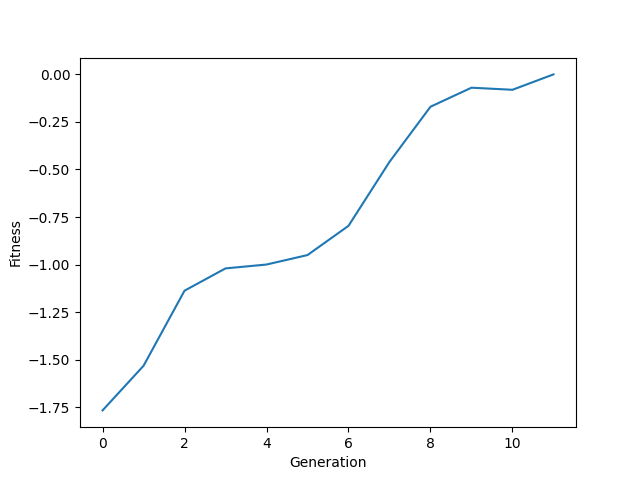
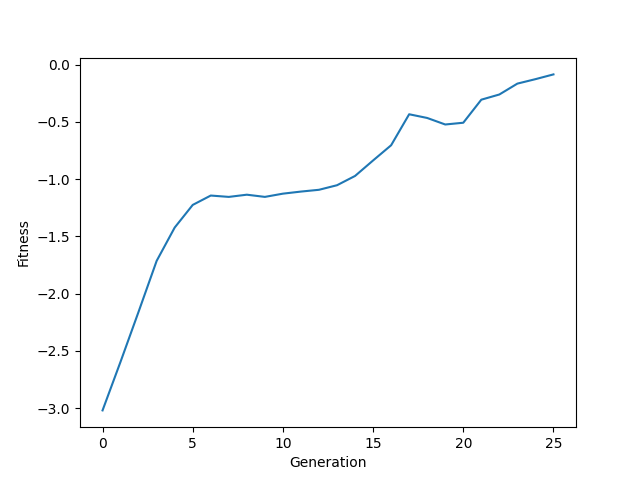
add data pickles and updated testing

diff --git a/neural_net.py b/neural_net.py
@@ -66,41 +66,48 @@ def mutate_network(simple_net, mutation_rate=0.001):
             layer_to_mut[selected_location[0], selected_location[1]] = np.random.uniform(-100,100)
 
 """    
-This code will work even without a mutation function, but you'll not be introducing any variation into the population. Once you have a working mutation function, you'll have more fun. 
-
-For this problem, we're going to try to evolve a solution to the last question from the last worksheet. 
-
-| Input 1 | Input 2 | Output |
-|---------|---------|--------|
-| 0       | 0       | 0      |
-| 0       | 1       | 1      |
-| 1       | 0       | 1      |
-| 1       | 1       | 0      |
+Output Code: [0] = Benign
+             [1] = Attack
 """
-input_set = [[0,0],
-             [0,1],
-             [1,0],
-             [1,1]]
+with open('benign1.pckl', 'rb') as f:
+    benign1 = pickle.load(f)
+with open('benign2.pckl', 'rb') as f:
+    benign2 = pickle.load(f)
+with open('benign3.pckl', 'rb') as f:
+    benign3 = pickle.load(f)
+with open('benign4.pckl', 'rb') as f:
+    benign4 = pickle.load(f)
+with open('dos1.pckl', 'rb') as f:
+    dos1 = pickle.load(f)
+with open('dos2.pckl', 'rb') as f:
+    dos2 = pickle.load(f)
+with open('infil1.pckl', 'rb') as f:
+    infil1 = pickle.load(f)
+with open('sqlinjection1.pckl', 'rb') as f:
+    sqlinjection1 = pickle.load(f)
 
-output_set = [[0], 
-              [1],
-              [1], 
-              [0]]
+input_set = [benign1,
+             benign2,
+             benign3,
+             dos1,
+             dos2,
+             infil1,
+             sqlinjection1]
 
+output_set = [0, 0, 0, 1, 1, 1, 1]
 
-pop_size = 100
-num_generations = 100
-mutation_rate = 0.05
+pop_size = 200
+mutation_rate = 0.07
 
-population = [ SimpleNeuralNet(num_inputs=2, 
+population = [ SimpleNeuralNet(num_inputs=72, 
                                num_outputs=1, 
-                               layer_node_counts=[5])
+                               layer_node_counts=[60, 50, 40, 30, 20, 10,5])
               for i in range(pop_size)]
 
 avg_fitnesses = []
 gen = 0
 this_gen_avg_fitness = -1000
-while (this_gen_avg_fitness < -0.001):
+while (this_gen_avg_fitness < -0.1):
     print(gen)
     selected_individuals = [tournament_selection(population, 
                                                  input_set, 

diff --git a/reduce_data.py b/reduce_data.py
@@ -56,18 +56,6 @@ pickled_name = "dos3.pckl"
 attack_name = "DoS attacks-Hulk"
 get_and_pickle_data(df, pickled_name, attack_name)
 
-# First DDoS-LOIC-UDP Attack
-df = pandas.read_csv("Tuesday-20-02-2018_TrafficForML_CICFlowMeter.csv")
-pickled_name = "ddosloicudp1.pckl"
-attack_name = "DDOS attack-LOIC-UDP"
-get_and_pickle_data(df, pickled_name, attack_name)
-
-# Second DDoS-LOIC-UDP Attack
-df = pandas.read_csv("Wednesday-21-02-2018_TrafficForML_CICFlowMeter.csv")
-pickled_name = "ddosloicudp2.pckl"
-attack_name = "DDOS attack-LOIC-UDP"
-get_and_pickle_data(df, pickled_name, attack_name)
-
 # First SQL Injection Attack
 df = pandas.read_csv("Thursday-22-02-2018_TrafficForML_CICFlowMeter.csv")
 pickled_name = "sqlinjection1.pckl"
@@ -107,36 +95,6 @@ get_and_pickle_data(df, pickled_name, attack_name)
 # Fifth Benign Data Set
 df = pandas.read_csv("Thursday-15-02-2018_TrafficForML_CICFlowMeter.csv")
 pickled_name = "benign5.pckl"
-attack_name = "Benign"
-get_and_pickle_data(df, pickled_name, attack_name)
-
-# Sixth Benign Data Set
-df = pandas.read_csv("Thursday-22-02-2018_TrafficForML_CICFlowMeter.csv")
-pickled_name = "benign6.pckl"
-attack_name = "Benign"
-get_and_pickle_data(df, pickled_name, attack_name)
-
-# Seventh Benign Data Set
-df = pandas.read_csv("Tuesday-20-02-2018_TrafficForML_CICFlowMeter.csv")
-pickled_name = "benign7.pckl"
-attack_name = "Benign"
-get_and_pickle_data(df, pickled_name, attack_name)
-
-# Eighth Benign Data Set
-df = pandas.read_csv("Wednesday-14-02-2018_TrafficForML_CICFlowMeter.csv")
-pickled_name = "benign8.pckl"
-attack_name = "Benign"
-get_and_pickle_data(df, pickled_name, attack_name)
-
-# Ninth Benign Data Set
-df = pandas.read_csv("Wednesday-21-02-2018_TrafficForML_CICFlowMeter.csv")
-pickled_name = "benign9.pckl"
-attack_name = "Benign"
-get_and_pickle_data(df, pickled_name, attack_name)
-
-# Tenth Benign Data Set
-df = pandas.read_csv("Wednesday-28-02-2018_TrafficForML_CICFlowMeter.csv")
-pickled_name = "benign10.pckl"
 attack_name = "Benign"
 get_and_pickle_data(df, pickled_name, attack_name)
 

diff --git a/evaluate_after_training.py b/evaluate_after_training.py
@@ -40,25 +40,47 @@ def get_network_output(simple_net, input_set):
     return_list = []
     for test_index in range(len(input_set)):
         test_output = simple_net.execute(input_set[test_index])
-        return_list.append([float(test_output)])
+        return_list.append([list(test_output)])
     return return_list
 
+def get_network_fitness(simple_net, input_set, target_output_set):
+    assert(len(input_set) == len(target_output_set))
+    total_distance = 0
+    for test_index in range(len(input_set)):
+        test_output = simple_net.execute(input_set[test_index])
+        target_output = target_output_set[test_index]
+        distances = np.linalg.norm(test_output - target_output)
+        total_distance += np.sum(distances)
+
+    return -total_distance
 
 filename = 'most_fit.pckl'
 with open(filename, 'rb') as f:
     most_fit_individual = pickle.load(f)
 
-input_set = [[0,0],
-             [0,1],
-             [1,0],
-             [1,1]]
+"""    
+Output Code: [0] = Benign
+             [1] = Attack
+"""
+with open('benign4.pckl', 'rb') as f:
+    benign4 = pickle.load(f)
+with open('benign5.pckl', 'rb') as f:
+    benign5 = pickle.load(f)
+with open('dos3.pckl', 'rb') as f:
+    dos3 = pickle.load(f)
+with open('infil2.pckl', 'rb') as f:
+    infil2 = pickle.load(f)
+with open('sqlinjection2.pckl', 'rb') as f:
+    sqlinjection2 = pickle.load(f)
 
-desired_output_set = [[0], 
-                      [1],
-                      [1], 
-                      [0]]
+input_set = [benign4,
+             benign5,
+             dos3,
+             infil2,
+             sqlinjection2]
 
+desired_output_set = [0, 0, 1, 1, 1]
+print(get_network_fitness(most_fit_individual, input_set, desired_output_set))
 achieved_output_set = get_network_output(most_fit_individual,input_set)
-print("Input Set: {}".format(input_set))
 print("Desired Output Set: {}".format(desired_output_set))
 print("Achieved Output Set: {}".format(achieved_output_set))
